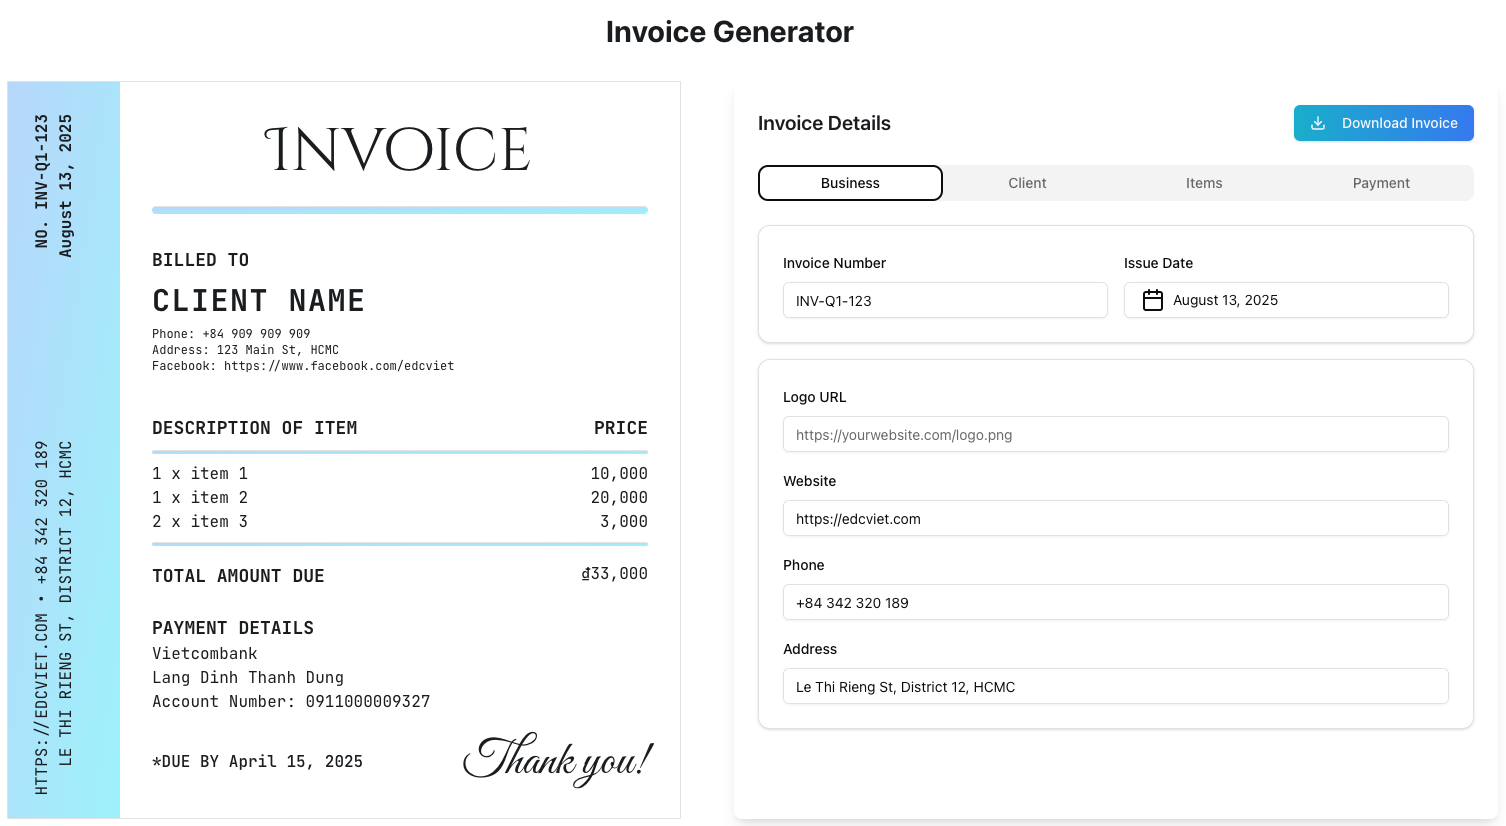
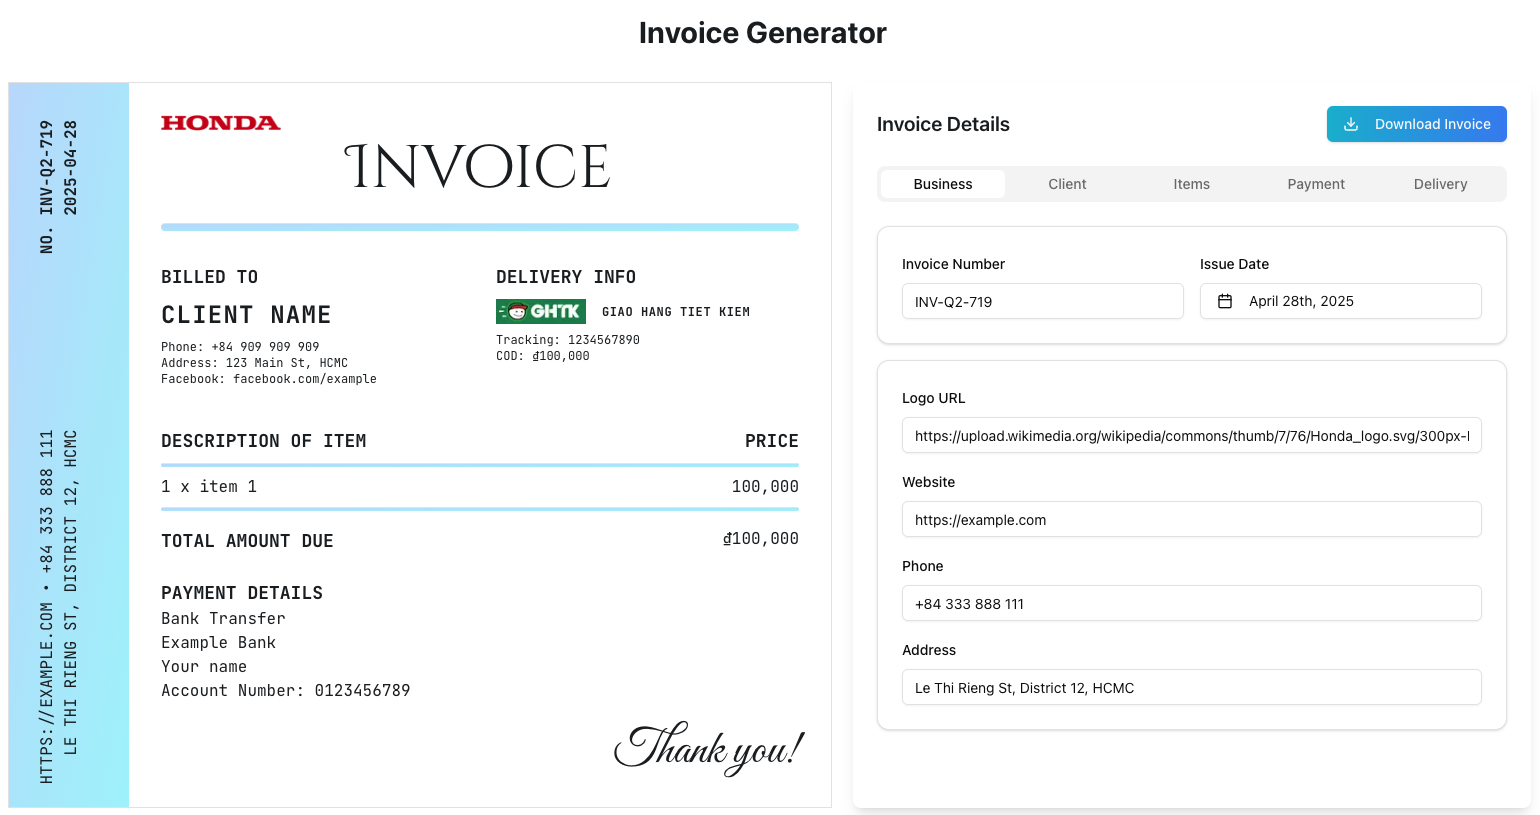
generate delivery

diff --git a/components/InvoiceForm.tsx b/components/InvoiceForm.tsx
@@ -32,6 +32,14 @@ export function InvoiceForm({ data, setData, onDateChange }: InvoiceFormProps) {
     { code: "CNY", label: "CNY - Chinese Yuan" },
     { code: "HKD", label: "HKD - Hong Kong Dollar" },
   ];
+
+  const deliveryCompanies = [
+    { id: "", name: "", logo: "" },
+    { id: "ghtk", name: "Giao Hang Tiet Kiem", logo: "/logo/ghtk.png" },
+    { id: "viettelpost", name: "Viettel post", logo: "/logo/viettelpost.png" },
+    { id: "other", name: "Other", logo: "" },
+  ];
+
   const handleCurrencyChange = (e: React.ChangeEvent<HTMLSelectElement>) => {
     setData((prev) => ({
       ...prev,
@@ -90,7 +98,7 @@ export function InvoiceForm({ data, setData, onDateChange }: InvoiceFormProps) {
   const addItem = () => {
     setData((prev) => ({
       ...prev,
-      items: [...prev.items, { item: "", price: "", currency: data.currency }],
+      items: [...prev.items, { item: "", price: 0, currency: data.currency }],
     }))
   }
 
@@ -103,6 +111,30 @@ export function InvoiceForm({ data, setData, onDateChange }: InvoiceFormProps) {
     }))
   }
 
+  const handleDeliveryChange = (e: React.ChangeEvent<HTMLInputElement>, field: keyof InvoiceData["delivery"]) => {
+    setData((prev) => ({
+      ...prev,
+      delivery: {
+        ...prev.delivery,
+        [field]: e.target.value,
+      },
+    }))
+  }
+
+  const handleDeliveryCompanyChange = (e: React.ChangeEvent<HTMLSelectElement>) => {
+    const selectedCompany = deliveryCompanies.find((company) => company.id === e.target.value);
+    if (selectedCompany) {
+      setData((prev) => ({
+        ...prev,
+        delivery: {
+          ...prev.delivery,
+          companyName: selectedCompany.name,
+          logo: selectedCompany.logo,
+        },
+      }));
+    }
+  };
+
   useEffect(() => {
     if (!data.number) {
       setData((prev) => ({
@@ -114,11 +146,12 @@ export function InvoiceForm({ data, setData, onDateChange }: InvoiceFormProps) {
 
   return (
     <Tabs defaultValue="business" className="w-full">
-      <TabsList className="grid grid-cols-4 mb-6">
+      <TabsList className="grid grid-cols-5 mb-6">
         <TabsTrigger value="business">Business</TabsTrigger>
         <TabsTrigger value="client">Client</TabsTrigger>
         <TabsTrigger value="items">Items</TabsTrigger>
         <TabsTrigger value="payment">Payment</TabsTrigger>
+        <TabsTrigger value="delivery">Delivery</TabsTrigger>
       </TabsList>
 
       <TabsContent value="business" className="space-y-4">
@@ -275,6 +308,8 @@ export function InvoiceForm({ data, setData, onDateChange }: InvoiceFormProps) {
                     <Label htmlFor={`price-${index}`}>Price</Label>
                     <Input
                       id={`price-${index}`}
+                      type="number"
+                      min={0}
                       value={item.price}
                       onChange={(e: React.ChangeEvent<HTMLInputElement>) => handleItemChange(e, index, "price")}
                       placeholder={`${data.currency} 0`}
@@ -303,6 +338,8 @@ export function InvoiceForm({ data, setData, onDateChange }: InvoiceFormProps) {
                 <span>Discount:</span>
                 <Input
                   id="discount"
+                  type="number"
+                  min={0}
                   value={data.discount}
                   onChange={(e: React.ChangeEvent<HTMLInputElement>) => handleChange(e, "discount")}
                   placeholder={`${data.currency} 0`}
@@ -386,6 +423,66 @@ export function InvoiceForm({ data, setData, onDateChange }: InvoiceFormProps) {
                   <DatePicker date={data.dueDate ? new Date(data.dueDate) : undefined} setDate={(d) => onDateChange(d?.toISOString() ?? "", "dueDate")} />
                 </div>
               </div>
+            </div>
+          </CardContent>
+        </Card>
+      </TabsContent>
+
+      <TabsContent value="delivery" className="space-y-4">
+        <Card>
+          <CardContent className="pt-6">
+            <div className="space-y-4">
+              <div className="space-y-2">
+                <Label htmlFor="deliveryCompany">Delivery Company</Label>
+                <select
+                  id="deliveryCompany"
+                  className="w-full border border-input rounded-md p-2 text-sm"
+                  value={deliveryCompanies.find(c => c.name === data.delivery?.companyName)?.id ?? "other"}
+                  onChange={handleDeliveryCompanyChange}
+                >
+                  {deliveryCompanies.map((company) => (
+                    <option key={company.id} value={company.id}>
+                      {company.name}
+                    </option>
+                  ))}
+                </select>
+              </div>
+
+              {data.delivery?.companyName && (
+                <>
+                  <div className="space-y-2">
+                    <Label htmlFor="companyName">Company Name</Label>
+                    <Input
+                      id="companyName"
+                      value={data.delivery?.companyName ?? ""}
+                      onChange={(e) => handleDeliveryChange(e, "companyName")}
+                      placeholder="Delivery Company Name"
+                    />
+                  </div>
+
+                  <div className="space-y-2">
+                    <Label htmlFor="trackingNumber">Tracking Number</Label>
+                    <Input
+                      id="trackingNumber"
+                      value={data.delivery?.trackingNumber ?? ""}
+                      onChange={(e) => handleDeliveryChange(e, "trackingNumber")}
+                      placeholder="Tracking Number"
+                    />
+                  </div>
+
+                  <div className="space-y-2">
+                    <Label htmlFor="cod">COD Amount</Label>
+                    <Input
+                      id="cod"
+                      type="number"
+                      min={0}
+                      value={data.delivery?.cod ?? 0}
+                      onChange={(e) => handleDeliveryChange(e, "cod")}
+                      placeholder={`${data.currency} 0`}
+                    />
+                  </div>
+                </>
+              )}
             </div>
           </CardContent>
         </Card>

diff --git a/components/InvoicePreview.tsx b/components/InvoicePreview.tsx
@@ -29,7 +29,7 @@ interface InvoicePreviewProps {
 export const InvoicePreview = forwardRef<HTMLDivElement, InvoicePreviewProps>(({ data }, ref) => {
 
   return (
-    <div className={`grid grid-cols-[112px,560px] h-full border w-max mx-auto p-0 m-0 ${jetbrainsMono.className}`} ref={ref}>
+    <div className={`grid grid-cols-[120px,702px] h-full border w-max mx-auto p-0 m-0 ${jetbrainsMono.className}`} ref={ref}>
       <header className="bg-gradient-to-tl from-cyan-200 to-blue-200 flex flex-col items-center justify-between w-full mx-auto py-20 pr-5">
         <div className="min-w-max -rotate-90 font-semibold text-base text-right">
           <p>NO. {data.number}</p>
@@ -62,13 +62,38 @@ export const InvoicePreview = forwardRef<HTMLDivElement, InvoicePreviewProps>(({
 
         <hr className="bg-gradient-to-tl from-cyan-200 to-blue-200 h-2 rounded mt-6 mb-4" />
 
-        {/* Billing Section */}
-        <section className="my-4 text-xs">
-          <h2 className="text-lg font-semibold mb-2">BILLED TO</h2>
-          <p className="font-semibold text-3xl uppercase tracking-wider mb-2">{data.client.name}</p>
-          <p>Phone: {data.client.phone}</p>
-          <p>Address: {data.client.address}</p>
-          <p>Facebook: {data.client.facebook}</p>
+        {/* Client and Delivery Section */}
+        <section className="my-4 text-xs grid grid-cols-2 gap-8">
+          <div>
+            <h2 className="text-lg font-semibold mb-2">BILLED TO</h2>
+            <p className="font-semibold text-2xl uppercase tracking-wider mb-2">{data.client.name}</p>
+            <p>Phone: {data.client.phone}</p>
+            <p>Address: {data.client.address}</p>
+            <p>Facebook: {data.client.facebook}</p>
+          </div>
+          {data.delivery && data.delivery.companyName && (
+            <div>
+              <h2 className="text-lg font-semibold mb-2">DELIVERY INFO</h2>
+              <div className="flex items-center gap-4 mb-2">
+                {data.delivery.logo && (
+                  <Image
+                    src={data.delivery.logo}
+                    alt={`${data.delivery.companyName} logo`}
+                    width={90}
+                    height={90}
+                    className="object-contain"
+                  />
+                )}
+                <p className="font-semibold text-md uppercase tracking-wider">{data.delivery.companyName}</p>
+              </div>
+              <p>Tracking: {data.delivery.trackingNumber}</p>
+              {data.delivery.cod > 0 && (
+                <p>
+                  COD: {formatCurrency(Number(data.delivery.cod), data.currency ?? "VND")}
+                </p>
+              )}
+            </div>
+          )}
         </section>
 
         {/* Description Section */}
@@ -87,10 +112,12 @@ export const InvoicePreview = forwardRef<HTMLDivElement, InvoicePreviewProps>(({
         </section>
 
         {/* Discount Section */}
+        {data.discount > 0 && (
         <section className="flex justify-between mt-4">
           <h2 className="text-lg font-bold">DISCOUNT</h2>
           <p>- {formatCurrency(Number(data.discount), data.currency ?? "VND")}</p>
         </section>
+        )}
 
         {/* Total Amount Section */}
         <section className="flex justify-between mt-4">

diff --git a/app/page.tsx b/app/page.tsx
@@ -21,20 +21,26 @@ export default function Home() {
     client: {
       name: "Client name",
       phone: "+84 909 909 909",
-      facebook: "https://www.facebook.com/example",
+      facebook: "facebook.com/example",
       address: "123 Main St, HCMC",
     },
     items: [
-      { item: "1 x item 1", price: "10000" },
+      { item: "1 x item 1", price: 10000 },
     ],
-    discount: "0",
-    total: "10000",
+    discount: 0,
+    total: 10000,
     payment: {
       bank: "Example Bank",
       accountName: "Your name",
       accountNumber: "0123456789",
     },
     currency: "VND",
+    delivery: {
+      companyName: "Giao Hang Tiet Kiem",
+      logo: "/logo/ghtk.png",
+      trackingNumber: "1234567890",
+      cod: 0,
+    },
   })
 
   const handleDateChange = (value: string, field: "date" | "dueDate") => {
@@ -59,18 +65,18 @@ export default function Home() {
   useEffect(() => {
     // Calculate total from items
     let total = invoiceData.items.reduce((acc, item) => {
-      const price = item.price.replace(/[^0-9.]/g, "")
+      const price = item.price
       return acc + +price
     }, 0)
     if (invoiceData.discount) {
-      const discount = invoiceData.discount.replace(/[^0-9.]/g, "")
+      const discount = invoiceData.discount
       total -= +discount
     }
     if (total < 0) total = 0
 
     setInvoiceData((prev) => ({
       ...prev,
-      total: `${total}`,
+      total: total,
     }))
   }, [invoiceData.items, invoiceData.currency, invoiceData.discount])
 
@@ -79,7 +85,7 @@ export default function Home() {
       <h1 className="text-3xl font-bold mb-8 text-center">Invoice Generator</h1>
 
       <div className="flex flex-col lg:flex-row flex-wrap gap-2 h-full">
-        <div className="order-2 lg:order-1 bg-white rounded-lg overflow-hidden h-full flex-1 min-w-[700px] p-0 m-0">
+        <div className="order-2 lg:order-1 bg-white rounded-lg overflow-hidden h-full flex-1 min-w-[850px] p-0 m-0">
           <InvoicePreview
             ref={invoiceRef}
             data={invoiceData}

diff --git a/types/invoice.ts b/types/invoice.ts
@@ -13,10 +13,10 @@ export interface InvoiceData {
   }
   items: Array<{
     item: string
-    price: string
+    price: number
   }>
-  discount: string
-  total: string
+  discount: number
+  total: number
   payment: {
     method?: "banking" | "cod"
     bank: string
@@ -25,5 +25,11 @@ export interface InvoiceData {
     routingNumber?: string
   }
   dueDate?: string
-  currency?: string
+  currency?: string,
+  delivery: {
+    companyName: string
+    logo: string,
+    trackingNumber: string
+    cod: number
+  }
 }

diff --git a/app/globals.css b/app/globals.css
@@ -56,6 +56,11 @@
     --chart-4: 280 65% 60%;
     --chart-5: 340 75% 55%
   }
+  :focus,
+  :focus-visible {
+    outline: none !important;
+    box-shadow: none !important;
+  }
 }
 
 @layer base {
